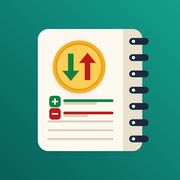
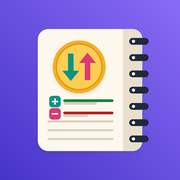
Add files via upload

diff --git a/style.css b/style.css
@@ -1,48 +1,66 @@
 /* الألوان كلها tokens: فاتح افتراضي، وداكن تلقائي حسب إعداد الجهاز أو بزرار المظهر */
 :root {
-  --brand: #0f766e;
+  --brand: #5b4bdb;
+  --brand-2: #8a6cf7;
   --on-brand: #ffffff;
-  --in: #15803d;
-  --out: #b91c1c;
-  --in-btn: #15803d;
-  --out-btn: #b91c1c;
-  --bg: #f4f6f8;
+  --in: #0b9483;
+  --out: #d93b73;
+  --in-btn: #0b9483;
+  --out-btn: #d93b73;
+  --warn: #5b4bdb;
+  --warn-bg: #ece8ff;
+  --good-bg: #d6f5ef;
+  --bad-bg: #fde3ec;
+  --out-bg: #fde3ec;
+  --bg: #f4f2ff;
   --card: #ffffff;
-  --text: #1f2937;
-  --muted: #6b7280;
-  --line: #e5e7eb;
-  --scrim: rgba(0, 0, 0, .45);
-  --shadow: rgba(0, 0, 0, .25);
+  --text: #1b1740;
+  --muted: #6a6791;
+  --line: #e1ddf7;
+  --scrim: rgba(20, 12, 60, .5);
+  --shadow: rgba(60, 40, 160, .22);
   --radius: 14px;
   color-scheme: light;
 }
 @media (prefers-color-scheme: dark) {
   :root:not([data-theme="light"]) {
-    --brand: #2dd4bf;
-    --on-brand: #05201c;
-    --in: #4ade80;
-    --out: #fb8a80;
-    --bg: #0e1514;
-    --card: #172220;
-    --text: #e6edeb;
-    --muted: #98a9a5;
-    --line: #2b3b38;
-    --scrim: rgba(0, 0, 0, .65);
+    --brand: #9a8dff;
+    --brand-2: #6c5cf0;
+    --on-brand: #0e0b2b;
+    --in: #3ee0c8;
+    --out: #ff7aa6;
+    --warn: #b4aaff;
+    --warn-bg: #272059;
+    --good-bg: #0f3a36;
+    --bad-bg: #44162d;
+    --out-bg: #44162d;
+    --bg: #0c0a22;
+    --card: #16133a;
+    --text: #efedff;
+    --muted: #a5a2d2;
+    --line: #2c2866;
+    --scrim: rgba(4, 2, 20, .7);
     --shadow: rgba(0, 0, 0, .6);
     color-scheme: dark;
   }
 }
 :root[data-theme="dark"] {
-  --brand: #2dd4bf;
-  --on-brand: #05201c;
-  --in: #4ade80;
-  --out: #fb8a80;
-  --bg: #0e1514;
-  --card: #172220;
-  --text: #e6edeb;
-  --muted: #98a9a5;
-  --line: #2b3b38;
-  --scrim: rgba(0, 0, 0, .65);
+  --brand: #9a8dff;
+  --brand-2: #6c5cf0;
+  --on-brand: #0e0b2b;
+  --in: #3ee0c8;
+  --out: #ff7aa6;
+  --warn: #b4aaff;
+  --warn-bg: #272059;
+  --good-bg: #0f3a36;
+  --bad-bg: #44162d;
+  --out-bg: #44162d;
+  --bg: #0c0a22;
+  --card: #16133a;
+  --text: #efedff;
+  --muted: #a5a2d2;
+  --line: #2c2866;
+  --scrim: rgba(4, 2, 20, .7);
   --shadow: rgba(0, 0, 0, .6);
   color-scheme: dark;
 }
@@ -98,7 +116,7 @@ button, input { color: inherit; }
   cursor: pointer;
   width: 100%;
 }
-.btn-primary { background: var(--brand); color: var(--on-brand); }
+.btn-primary { background: linear-gradient(135deg, var(--brand), var(--brand-2)); color: var(--on-brand); }
 .btn-ghost { background: var(--line); color: var(--text); }
 .btn-in { background: var(--in-btn); color: #fff; }
 .btn-out { background: var(--out-btn); color: #fff; }
@@ -235,11 +253,8 @@ button.card strong { font-size: 24px; }
 .btn:disabled { opacity: .6; cursor: wait; }
 
 /* ---------- الخطوات 3-6: مواعيد، تعديل، رسايل ---------- */
-:root { --warn: #b45309; --warn-bg: #fdf0dc; --out-bg: #fbe6e4; }
 @media (prefers-color-scheme: dark) {
-  :root:not([data-theme="light"]) { --warn: #fbbf24; --warn-bg: #3a2a0c; --out-bg: #3a1a17; }
 }
-:root[data-theme="dark"] { --warn: #fbbf24; --warn-bg: #3a2a0c; --out-bg: #3a1a17; }
 
 .icon-btn.wide { width: auto; padding: 0 12px; font-size: 14px; font-weight: 600; }
 .lbl { display: block; font-size: 13px; color: var(--muted); margin: 2px 0 6px; }
@@ -289,3 +304,36 @@ button.card strong { font-size: 24px; }
 .adm-card .row2 span:first-child { color: var(--muted); }
 .adm-card .acts { display: grid; grid-template-columns: 1fr 1fr; gap: 10px; margin-top: 10px; }
 .adm-card .btn { padding: 10px; font-size: 15px; }
+
+/* لوحة الإدارة */
+.stats { display: grid; grid-template-columns: repeat(3, 1fr); gap: 8px; margin: 12px 0; }
+.stat { background: var(--card); border: 1px solid var(--line); border-radius: var(--radius); padding: 12px 8px; text-align: center; }
+.stat b { display: block; font-size: 24px; color: var(--brand); }
+.stat.warn b { color: var(--warn); }
+.stat.good b { color: var(--in); }
+.stat span { font-size: 12px; color: var(--muted); }
+.tabs { display: flex; gap: 6px; background: var(--card); border: 1px solid var(--line); border-radius: var(--radius); padding: 4px; margin-bottom: 10px; }
+.tab { flex: 1; border: 0; background: none; border-radius: 10px; padding: 10px 4px; font-size: 13px; font-weight: 600; color: var(--muted); cursor: pointer; }
+.tab.on { background: linear-gradient(135deg, var(--brand), var(--brand-2)); color: var(--on-brand); }
+.badge:not(:empty) { display: inline-block; min-width: 18px; padding: 0 5px; border-radius: 9px; background: var(--warn-bg); color: var(--warn); font-size: 12px; }
+.tab.on .badge:not(:empty) { background: rgba(255,255,255,.25); color: inherit; }
+.a-search { width: 100%; margin-bottom: 10px; }
+.adm-head { display: flex; justify-content: space-between; align-items: center; gap: 8px; margin-bottom: 8px; padding-bottom: 8px; border-bottom: 1px solid var(--line); }
+.pill { font-size: 12px; font-weight: 700; padding: 3px 10px; border-radius: 999px; background: var(--line); }
+.pill.warn { background: var(--warn-bg); color: var(--warn); }
+.pill.good { background: var(--good-bg); color: var(--in); }
+.pill.bad { background: var(--bad-bg); color: var(--out); }
+.acct summary { cursor: pointer; font-weight: 700; }
+.hidden { display: none !important; }
+
+/* روح وحيوية: خلفية متدرجة، ظلال ناعمة، وتفاصيل مرحة */
+body { background: radial-gradient(120% 60% at 100% 0%, color-mix(in srgb, var(--brand-2) 16%, transparent), transparent 60%), radial-gradient(90% 50% at 0% 100%, color-mix(in srgb, var(--in) 10%, transparent), transparent 60%), var(--bg); background-attachment: fixed; }
+.item, .adm-card, .stat, .tabs, .pay-box, .sum-card, .card { box-shadow: 0 6px 18px -10px var(--shadow); }
+.item { transition: transform .12s ease, box-shadow .12s ease; }
+.item:active { transform: scale(.985); }
+.btn-primary, .tab.on, .fab { box-shadow: 0 8px 18px -8px var(--shadow); }
+.btn { transition: transform .1s ease, filter .15s; }
+.btn:active { transform: scale(.97); }
+.topbar h2 { background: linear-gradient(135deg, var(--brand), var(--brand-2)); -webkit-background-clip: text; background-clip: text; color: transparent; font-weight: 800; }
+.stat b { background: linear-gradient(135deg, var(--brand), var(--brand-2)); -webkit-background-clip: text; background-clip: text; color: transparent; }
+.stat.good b { background: none; color: var(--in); }

diff --git a/admin.js b/admin.js
@@ -40,16 +40,26 @@ async function sendResetLink(msgEl) {
 $("a-forgot").onclick = () => sendResetLink($("a-msg"));
 $("a-chpass").onclick = () => sendResetLink($("a-pass-msg"));
 
+let curTab = "pending", q = "", lastList = [];
+const PRICE_EGP = 100;
+function badge(st) {
+  const m = { pending: ["قيد المراجعة", "warn"], approved: ["مفعّل", "good"], rejected: ["مرفوض", "bad"], revoked: ["موقوف", "bad"] }[st] || [st, ""];
+  return `<span class="pill ${m[1]}">${m[0]}</span>`;
+}
 function card(p, buttons) {
   const rows = [
-    ["البريد", p.email], ["الاسم", p.name], ["رقم العملية / الهاتف", p.transfer],
+    ["الاسم", p.name], ["رقم العملية / الهاتف", p.transfer],
     ["الرمز المرجعي", p.ref], ["وقت الطلب", when(p.createdAt)],
   ].map(([k, v]) => `<div class="row2"><span>${k}</span><span dir="auto">${esc(v)}</span></div>`).join("");
   const acts = buttons.map((b) => `<button class="btn ${b.cls}" data-act="${b.act}" data-uid="${esc(p.id)}" type="button">${b.label}</button>`).join("");
-  return `<div class="adm-card">${rows}<div class="acts">${acts}</div></div>`;
+  return `<div class="adm-card"><div class="adm-head"><b dir="ltr">${esc(p.email)}</b>${badge(p.status)}</div>${rows}<div class="acts">${acts}</div></div>`;
 }
 
 function render(list) {
+  lastList = list;
+  const needle = q.trim().toLowerCase();
+  const all = list;
+  if (needle) list = list.filter((p) => [p.email, p.name, p.ref, p.transfer].some((v) => String(v || "").toLowerCase().includes(needle)));
   const by = (st) => list.filter((p) => p.status === st).sort((a, b) => ((b.createdAt && b.createdAt.toMillis && b.createdAt.toMillis()) || 0) - ((a.createdAt && a.createdAt.toMillis && a.createdAt.toMillis()) || 0));
   const pending = by("pending"), approved = by("approved");
   const other = list.filter((p) => p.status === "rejected" || p.status === "revoked");
@@ -60,10 +70,21 @@ function render(list) {
   $("empty-pending").classList.toggle("hidden", pending.length > 0);
   $("list-approved").innerHTML = approved.map((p) => card(p, [{ act: "revoke", label: "إيقاف الاشتراك", cls: "btn-out" }])).join("");
   $("list-other").innerHTML = other.map((p) => card(p, [{ act: "approve", label: "تفعيل", cls: "btn-in" }])).join("");
-  $("n-pending").textContent = pending.length ? "(" + pending.length + ")" : "";
-  $("n-approved").textContent = approved.length ? "(" + approved.length + ")" : "";
-  $("n-other").textContent = other.length ? "(" + other.length + ")" : "";
+  $("n-pending").textContent = pending.length || "";
+  $("n-approved").textContent = approved.length || "";
+  $("n-other").textContent = other.length || "";
+  const ap = all.filter((p) => p.status === "approved").length;
+  $("s-pending").textContent = all.filter((p) => p.status === "pending").length;
+  $("s-approved").textContent = ap;
+  $("s-revenue").textContent = ap * PRICE_EGP;
 }
+function showTab(t) {
+  curTab = t;
+  document.querySelectorAll(".tab").forEach((x) => x.classList.toggle("on", x.dataset.tab === t));
+  ["pending", "approved", "other"].forEach((n) => $("panel-" + n).classList.toggle("hidden", n !== t));
+}
+document.querySelectorAll(".tab").forEach((x) => { x.onclick = () => showTab(x.dataset.tab); });
+$("a-search").oninput = (e) => { q = e.target.value; render(lastList); };
 
 let armed = null;
 document.addEventListener("click", async (e) => {

diff --git a/admin.html b/admin.html
@@ -7,7 +7,7 @@
   <meta name="robots" content="noindex">
   <script>try{var t=localStorage.getItem("theme");if(t)document.documentElement.setAttribute("data-theme",t)}catch(e){}</script>
   <title>إدارة الاشتراكات</title>
-  <link rel="icon" href="icon-192.png?v=2">
+  <link rel="icon" href="icon-192.png?v=3">
   <link rel="stylesheet" href="style.css">
 </head>
 <body>
@@ -37,21 +37,33 @@
       </div>
     </header>
     <p class="msg" id="a-err" role="alert"></p>
-    <div class="adm-card">
-      <div class="row2"><span>حساب المدير</span><span id="a-who" dir="ltr"></span></div>
-      <button class="btn btn-ghost" id="a-chpass" type="button" style="margin-top:8px">تغيير كلمة المرور (بتأكيد من البريد)</button>
-      <p class="msg" id="a-pass-msg" role="status"></p>
+
+    <div class="stats">
+      <div class="stat warn"><b id="s-pending">0</b><span>بانتظار المراجعة</span></div>
+      <div class="stat good"><b id="s-approved">0</b><span>مشترك مفعّل</span></div>
+      <div class="stat"><b id="s-revenue">0</b><span>إجمالي الإيراد (جنيه)</span></div>
     </div>
 
-    <h3 class="section-title">طلبات قيد المراجعة <span id="n-pending"></span></h3>
-    <div id="list-pending"></div>
-    <p class="muted center hidden" id="empty-pending">لا توجد طلبات.</p>
+    <div class="tabs" role="tablist">
+      <button class="tab on" data-tab="pending" role="tab" type="button">قيد المراجعة <span id="n-pending" class="badge"></span></button>
+      <button class="tab" data-tab="approved" role="tab" type="button">المفعّلون <span id="n-approved" class="badge"></span></button>
+      <button class="tab" data-tab="other" role="tab" type="button">مرفوضة / موقوفة <span id="n-other" class="badge"></span></button>
+    </div>
+    <input type="search" id="a-search" class="a-search" placeholder="ابحث بالبريد أو الاسم أو الرمز" autocomplete="off">
 
-    <h3 class="section-title">المشتركون المفعّلون <span id="n-approved"></span></h3>
-    <div id="list-approved"></div>
+    <div class="tab-panel" id="panel-pending">
+      <div id="list-pending"></div>
+      <p class="muted center hidden" id="empty-pending">لا توجد طلبات.</p>
+    </div>
+    <div class="tab-panel hidden" id="panel-approved"><div id="list-approved"></div></div>
+    <div class="tab-panel hidden" id="panel-other"><div id="list-other"></div></div>
 
-    <h3 class="section-title">طلبات مرفوضة أو موقوفة <span id="n-other"></span></h3>
-    <div id="list-other"></div>
+    <details class="adm-card acct">
+      <summary>حساب المدير والأمان</summary>
+      <div class="row2"><span>الحساب</span><span id="a-who" dir="ltr"></span></div>
+      <button class="btn btn-ghost" id="a-chpass" type="button" style="margin-top:8px">تغيير كلمة المرور (بتأكيد من البريد)</button>
+      <p class="msg" id="a-pass-msg" role="status"></p>
+    </details>
   </section>
 
 <script type="module" src="admin.js"></script>

diff --git a/index.html b/index.html
@@ -3,16 +3,16 @@
 <head>
   <meta charset="utf-8">
   <meta name="viewport" content="width=device-width, initial-scale=1, viewport-fit=cover">
-  <meta name="theme-color" content="#0f766e">
+  <meta name="theme-color" content="#5b4bdb">
   <meta name="color-scheme" content="light dark">
   <meta name="mobile-web-app-capable" content="yes">
   <meta name="apple-mobile-web-app-capable" content="yes">
   <meta name="apple-mobile-web-app-title" content="النقوط">
   <script>try{var t=localStorage.getItem("theme");if(t)document.documentElement.setAttribute("data-theme",t)}catch(e){}</script>
   <title>دفتر النقوط</title>
-  <link rel="manifest" href="manifest.json?v=2">
-  <link rel="icon" href="icon-192.png?v=2">
-  <link rel="apple-touch-icon" href="icon-180.png?v=2">
+  <link rel="manifest" href="manifest.json?v=3">
+  <link rel="icon" href="icon-192.png?v=3">
+  <link rel="apple-touch-icon" href="icon-180.png?v=3">
   <link rel="stylesheet" href="style.css">
 </head>
 <body>

diff --git a/sw.js b/sw.js
@@ -1,7 +1,7 @@
 // Service worker: يخلي التطبيق يفتح من غير نت.
 // ملفات التطبيق: من النت الأول (عشان التحديثات تظهر فوراً) وبعدها من الكاش لو مفيش نت.
 // مكتبات Firebase (نسخة ثابتة): من الكاش الأول.
-const CACHE = 'naqout-v4';
+const CACHE = 'naqout-v6';
 const SHELL = ['./', 'index.html', 'style.css', 'app.js', 'auth.js', 'db.js', 'firebase-config.js',
   'manifest.json', 'billing.js', 'admin.html', 'admin.js', 'icon-180.png', 'icon-192.png', 'icon-512.png'];
 
